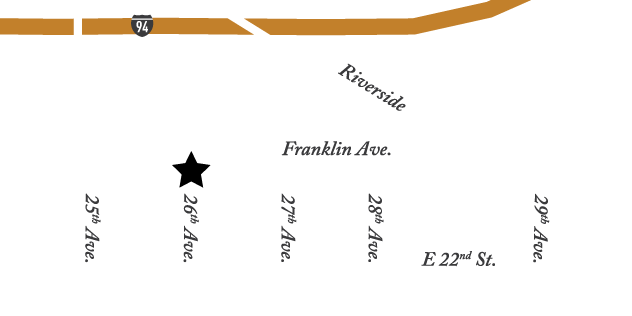
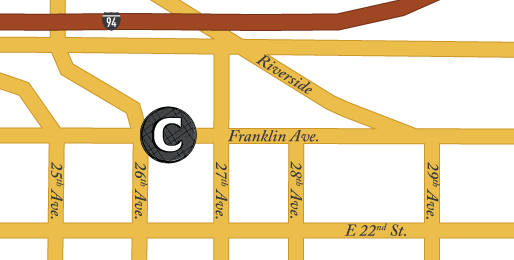
Updated CSS names

diff --git a/css/main.css b/css/main.css
@@ -62,15 +62,15 @@ body {
 	background: #FFF;
 	}
 
-.main-content article h1 {
+.main-container article h1 {
     font-size: 3em;
 }
 
-.main-content aside {
+.main-container aside {
     color: white;
 }
 
-.main-content aside {
+.main-container aside {
     background: #830B14; /* Brick */
 }
 
@@ -79,16 +79,24 @@ body {
 }
 
 .footer-wrapper {
-	padding-top: 20px;
 	background: #F9CD4E; /* Gold */
 	border-top: 4px solid #EAA940; /* Burnt */
 }
 
-.footer-content {
+.footer-container {
 	color: white;
 	margin: 0px;
 	padding-top: 20px;
 }
+
+.sub-footer-wrapper {
+	background: #EAA940; /* Burnt */
+}
+
+.copyright {
+	float: left;
+}
+
 
 /* ==============
     Navigation
@@ -131,7 +139,34 @@ nav a:hover {
     text-decoration: none;
 }
 
+.footer-top-nav {
+	float: left;
+}
 
+.footer-second-nav {
+	float: left;
+	clear: left;
+}
+
+.footer-details {
+	float: left;
+	padding-top: 20px;
+}
+
+.footer-details ul {
+	margin: 0px;
+	padding: 0px;
+}
+
+.footer-details ul li{
+	display: inline;
+	margin: 0px;
+}
+
+.sub-footer {
+	background-color: #EAA940; /* Gold */
+	clear:both;
+}
 
 .header-wrapper {
 	width: 100%;
@@ -140,7 +175,7 @@ nav a:hover {
 	border-bottom: 4px solid #EAA940; /* Burnt */
 }
 
-.header-content {
+.header-container {
 	margin-left: 64px; /*Set the padding to the width of the logo + 20px */
 }
 
@@ -246,6 +281,22 @@ nav a:hover {
 .ie7 .title {
 padding-top: 20px;
 }
+
+.footer-nav {
+	float: left;
+}
+.left {
+	float: left;
+	}
+	
+.map-canvas {
+	float: right;
+	height: 260px;
+}
+
+.sub-footer {
+}
+
 /* ====================
    $Links
    ==================== */
@@ -271,7 +322,7 @@ a:hover {
     $480 Small Screen & Landscape
    ======================================================================== */
 
-   .header-content{
+   .header-container{
 		margin-left: 5%;
 		padding-left: 94px; /*Set the padding to the width of the logo + 30px */
 		padding-right: 2%;
@@ -305,11 +356,23 @@ a:hover {
         margin: 0 0.7%;
     }
 
-	.main-content, .footer-content{
+	.main-container, .footer-container, .sub-footer-container {
 		margin: 0px 5%;
 		padding: 40px 0px 0px 94px; /*Set the padding to the width of the logo + 30px */
 	}
 	
+		.footer-container{
+			padding-top: 0px; /*Set the padding to the width of the logo + 30px */
+		}
+	
+		.sub-footer-container {
+			padding-top: 10px
+			padding-bottom: 10px;
+		}
+	
+	.map-canvas {
+
+	}
 }
 
 /* ========================================================================
@@ -318,7 +381,7 @@ a:hover {
 
 @media only screen and (min-width: 768px) {
 
-	.header-content{
+	.header-container{
 		padding-left: 103px; /*Set the padding to the width of the logo + 30px */
 	}
 	   
@@ -361,7 +424,7 @@ a:hover {
 		background: linear-gradient(to right, rgba(255,255,255,0) 0%, rgba(255,255,255,1) 10%, rgba(255,255,255,1) 70%, rgba(255,255,255,0) 100%), url(/images/pattern.png) top left repeat;
 	}
 	
-	.main-content, .footer-content {
+	.main-container, .footer-container, .sub-footer-container {
 		padding-left: 103px; /*Set the padding to the width of the logo + 30px */
 	}
 	
@@ -384,17 +447,17 @@ a:hover {
     WIDE: Main
    ============ */
 
-    .main-content article {
+    .main-container article {
         float: left;
         width: 57%;
     }
 
-    .main-content aside {
+    .main-container aside {
         float: right;
         width: 28%;
     }
 	
-	.main-content img {
+	.main-container img {
 		width: 100%
 	}
 }
@@ -409,8 +472,8 @@ a:hover {
 		
 	}
    
-   .header-content, .main-content, .footer-content {
-		max-width: 1040px;
+   .header-container, .main-container, .footer-container {
+		max-width: 1280px;
    }
    
 }

diff --git a/index.html b/index.html
@@ -25,7 +25,7 @@
 			<header>
 				<a href="/" class="logo">Co-op Creamery Cafe</a>
 				<div class="header-wrapper clearfix"> 
-					<div class="header-content">
+					<div class="header-container">
 						<div class="byline">
 							A Neighborhood Cafe <span>by</span><br>
 							<a href="/">Seward Community Co-op</a>
@@ -68,7 +68,7 @@
         </div>
 		
         <div class="main-wrapper">
-			<div class="main-content clearfix">
+			<div class="main-container clearfix">
                 <article>
                     <header>
                         <h1>Something about the cafe and its history</h1>
@@ -93,11 +93,53 @@
 		
         <footer>
 			<div class="footer-wrapper">
-				<div class="footer-content">
-					<h3>Contact</h3>
+				<div class="footer-container clearfix">
+					<div class="footer-details">
+						<ul>
+							<li>Contact Us</li>
+							<li>612-555-5855<li>
+							<li>2601 E. Franklin Ave.</li>
+							<li>Minneapolis, MN 55406</li>
+						</ul>
+					</div>
+					<div class="map-canvas">
 						<img src="/images/creamery-map.png">
+					</div>
+					<div class="footer-nav">
+						<div class="footer-top-nav">
+							<nav>
+								<ul>
+									<li><a href="#">Menu</a></li>
+									<li><a href="#">About</a></li>
+									<li><a href="#">Ownership</a></li>
+								</ul>
+							</nav>
+						</div>
+						<div class="footer-second-nav">
+							<nav>
+								<ul>
+									<li><a href="#">Employment</a></li>
+									<li><a href="#">Other</a></li>
+									<li><a href="#">Other</a></li>
+								</ul>
+							</nav>
+						</div>
+					</div>
+				</div>
+				
+				
+			</div>
+			<div class="sub-footer-wrapper">
+				<div class="sub-footer-container">
+					<div class="copyright">Copyright ©2015 Co-op Creamery Cafe. All rights reserved.</div>
+					<div class="footer-logo">
+						<img src="/images/SewardCoop.png">
+					</div>
 				</div>
 			</div>
+		</div>
+
+
 		</footer>
 
         <script src="//ajax.googleapis.com/ajax/libs/jquery/1.11.2/jquery.min.js"></script>
